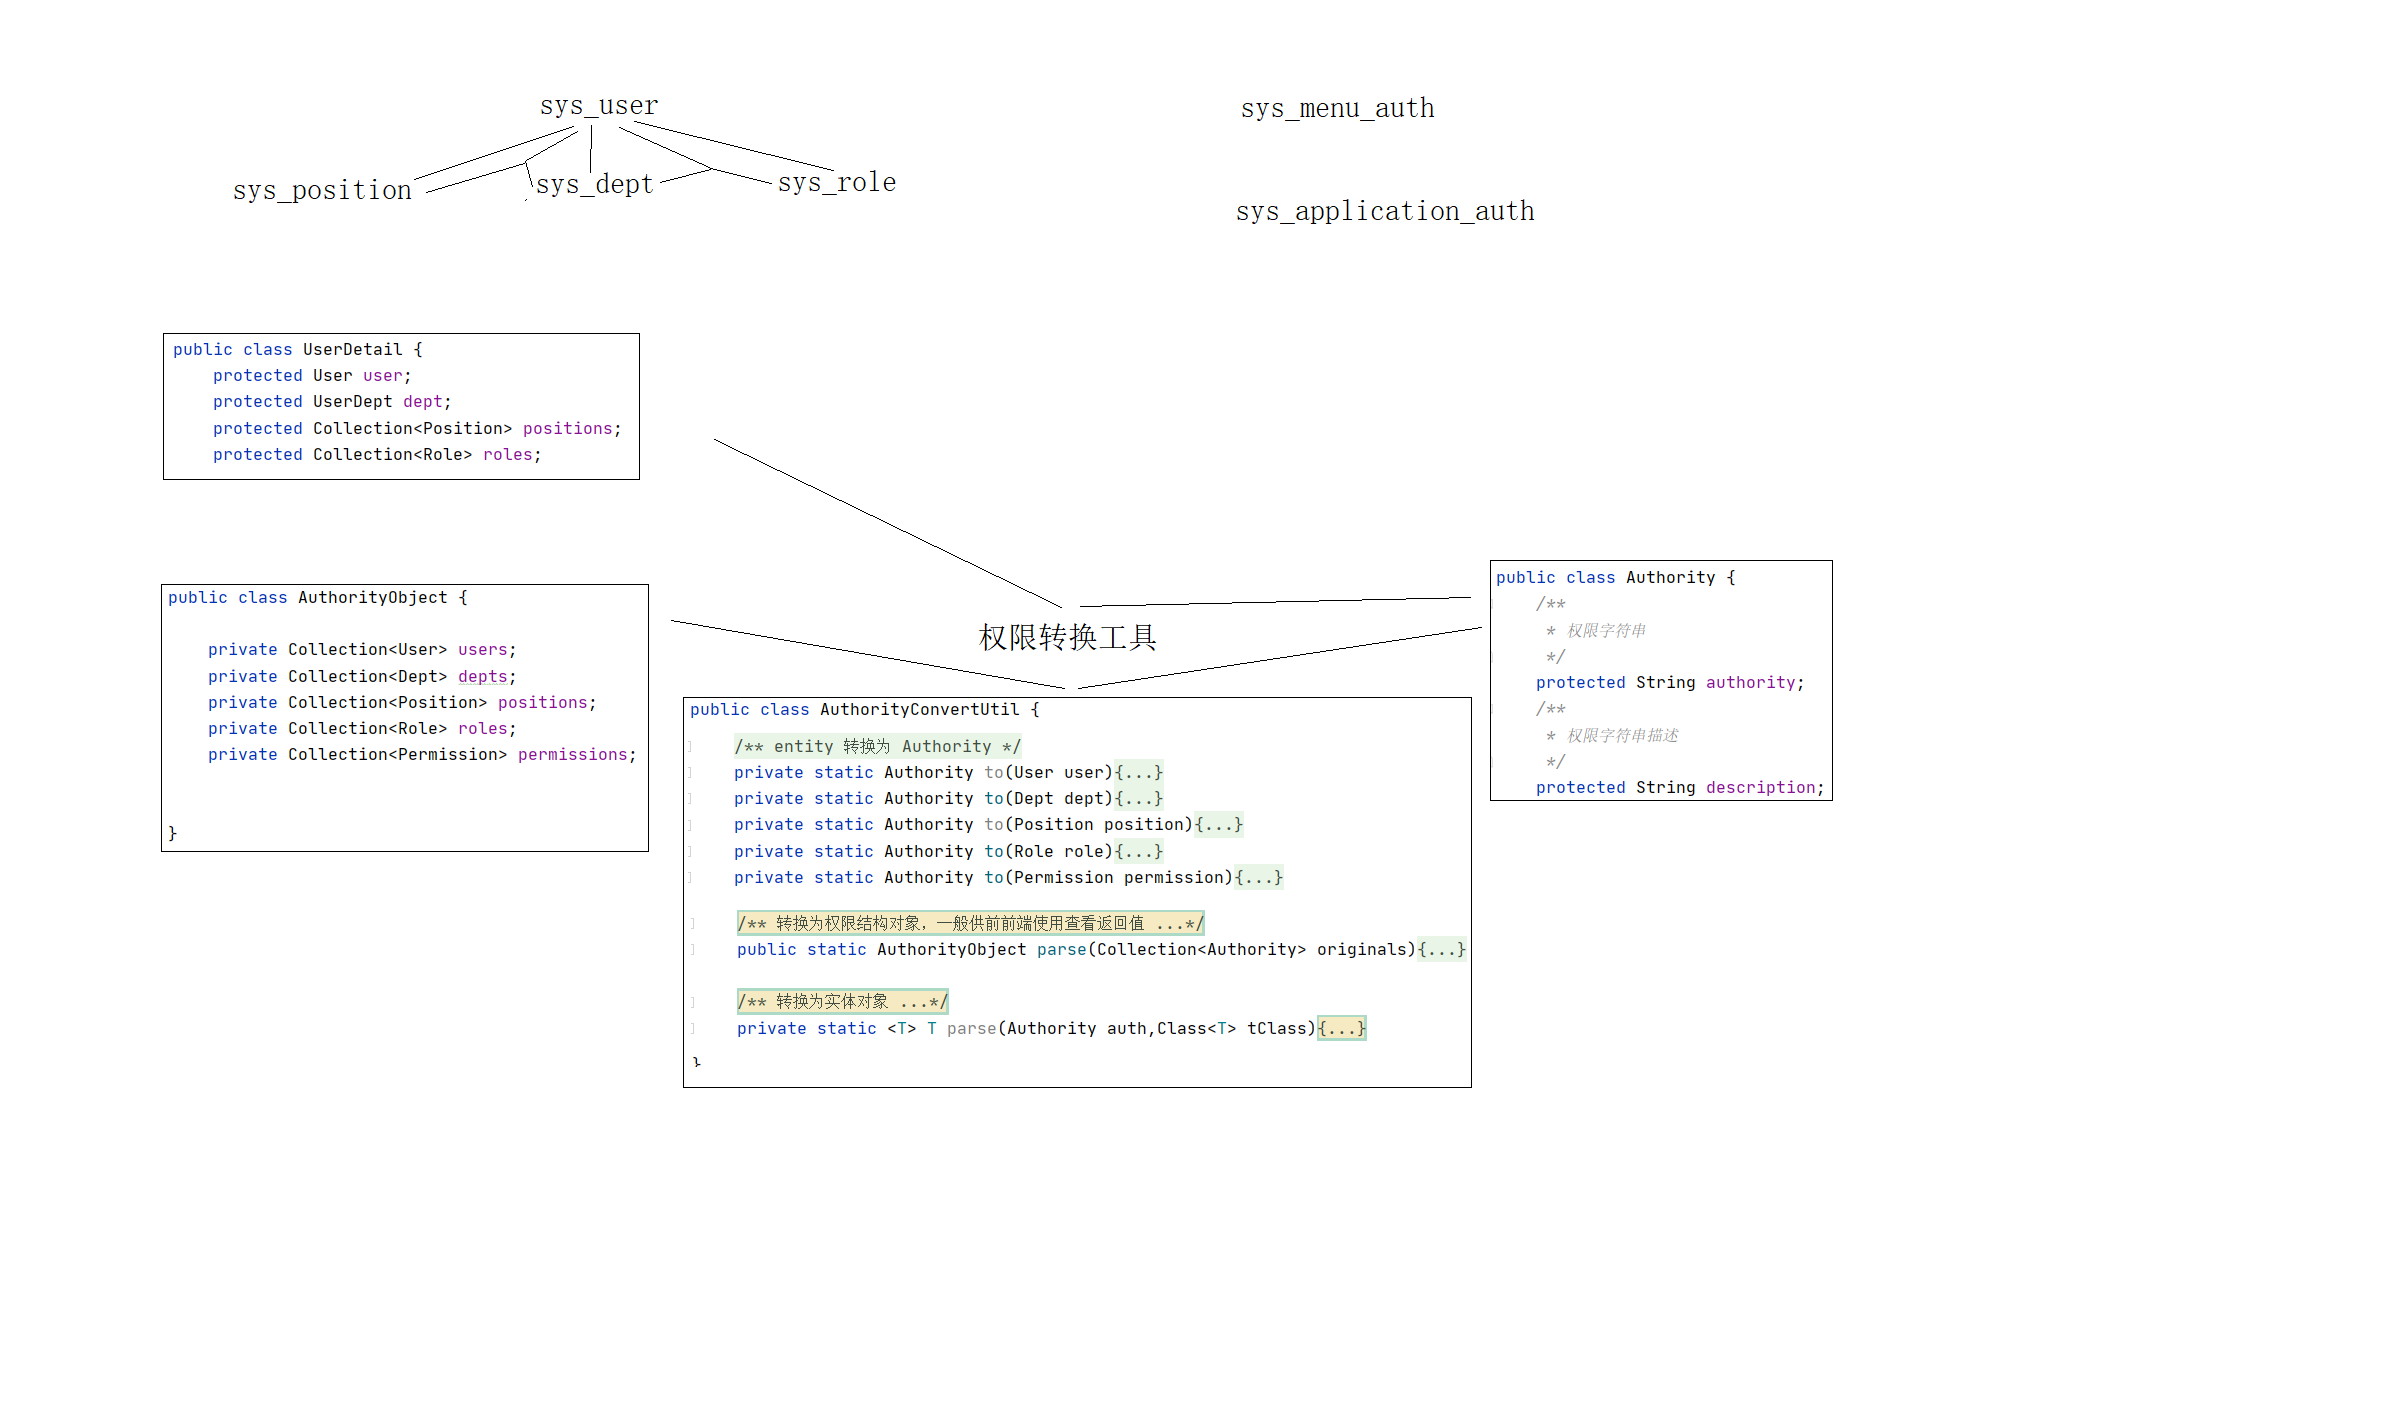
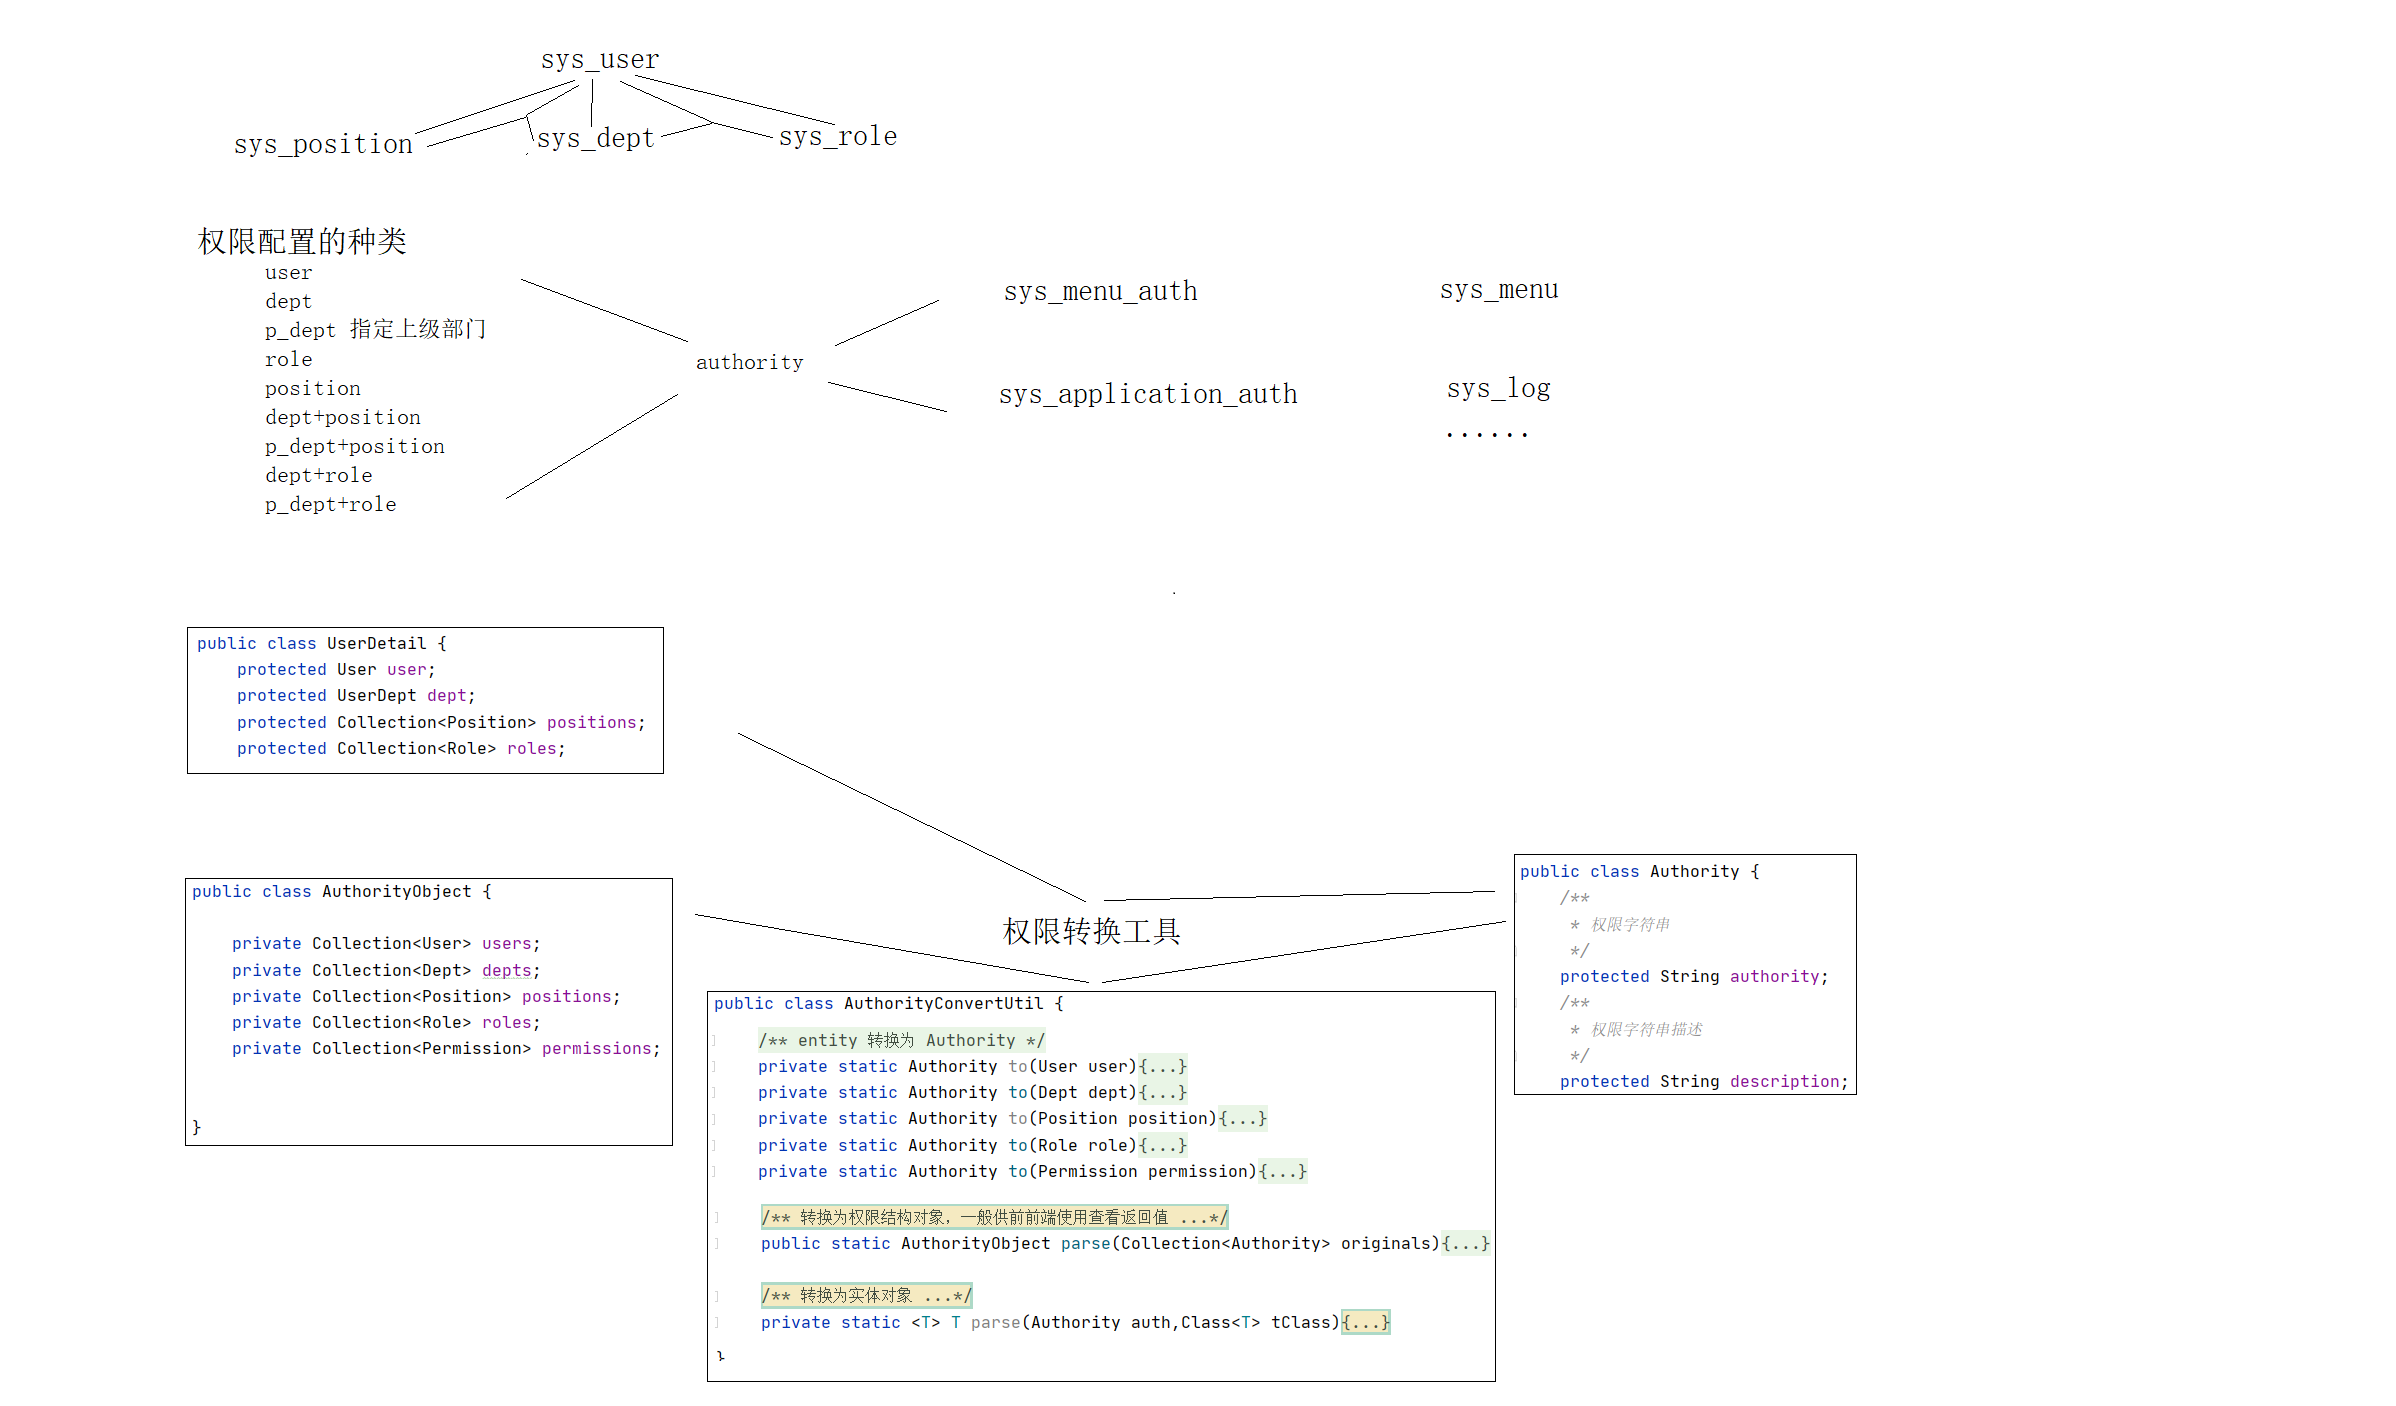
@user

diff --git a/boot/datasource-starter/src/main/java/com/kewen/framework/datasource/config/DatasourceConfig.java b/boot/datasource-starter/src/main/java/com/kewen/framework/datasource/config/DatasourceConfig.java
@@ -2,6 +2,7 @@ package com.kewen.framework.datasource.config;
 
 import org.springframework.boot.context.properties.ConfigurationProperties;
 import org.springframework.context.annotation.Configuration;
+import org.springframework.context.annotation.PropertySource;
 
 /**
  * @descrpition 
@@ -9,7 +10,7 @@ import org.springframework.context.annotation.Configuration;
  * @since 2022-12-05 16:09
  */
 @Configuration
-@ConfigurationProperties("application-datasource.properties")
+@PropertySource("classpath:application-datasource.properties")
 public class DatasourceConfig {
 
 }